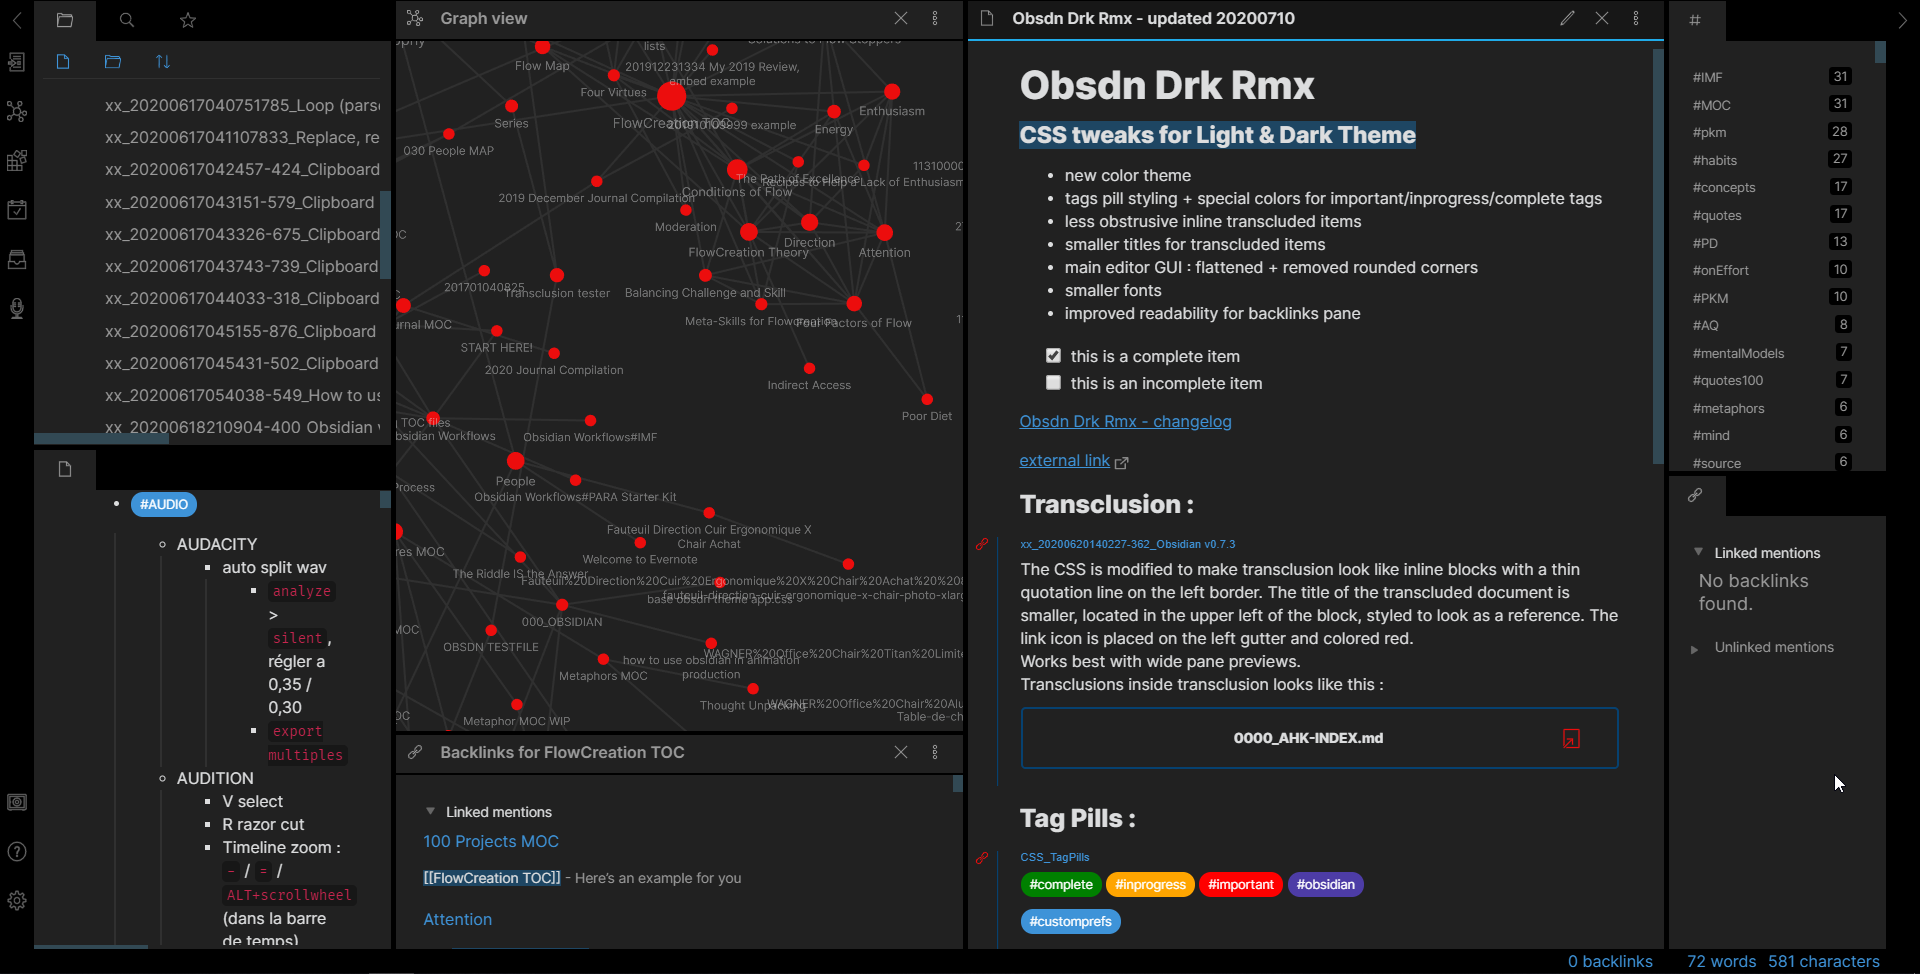
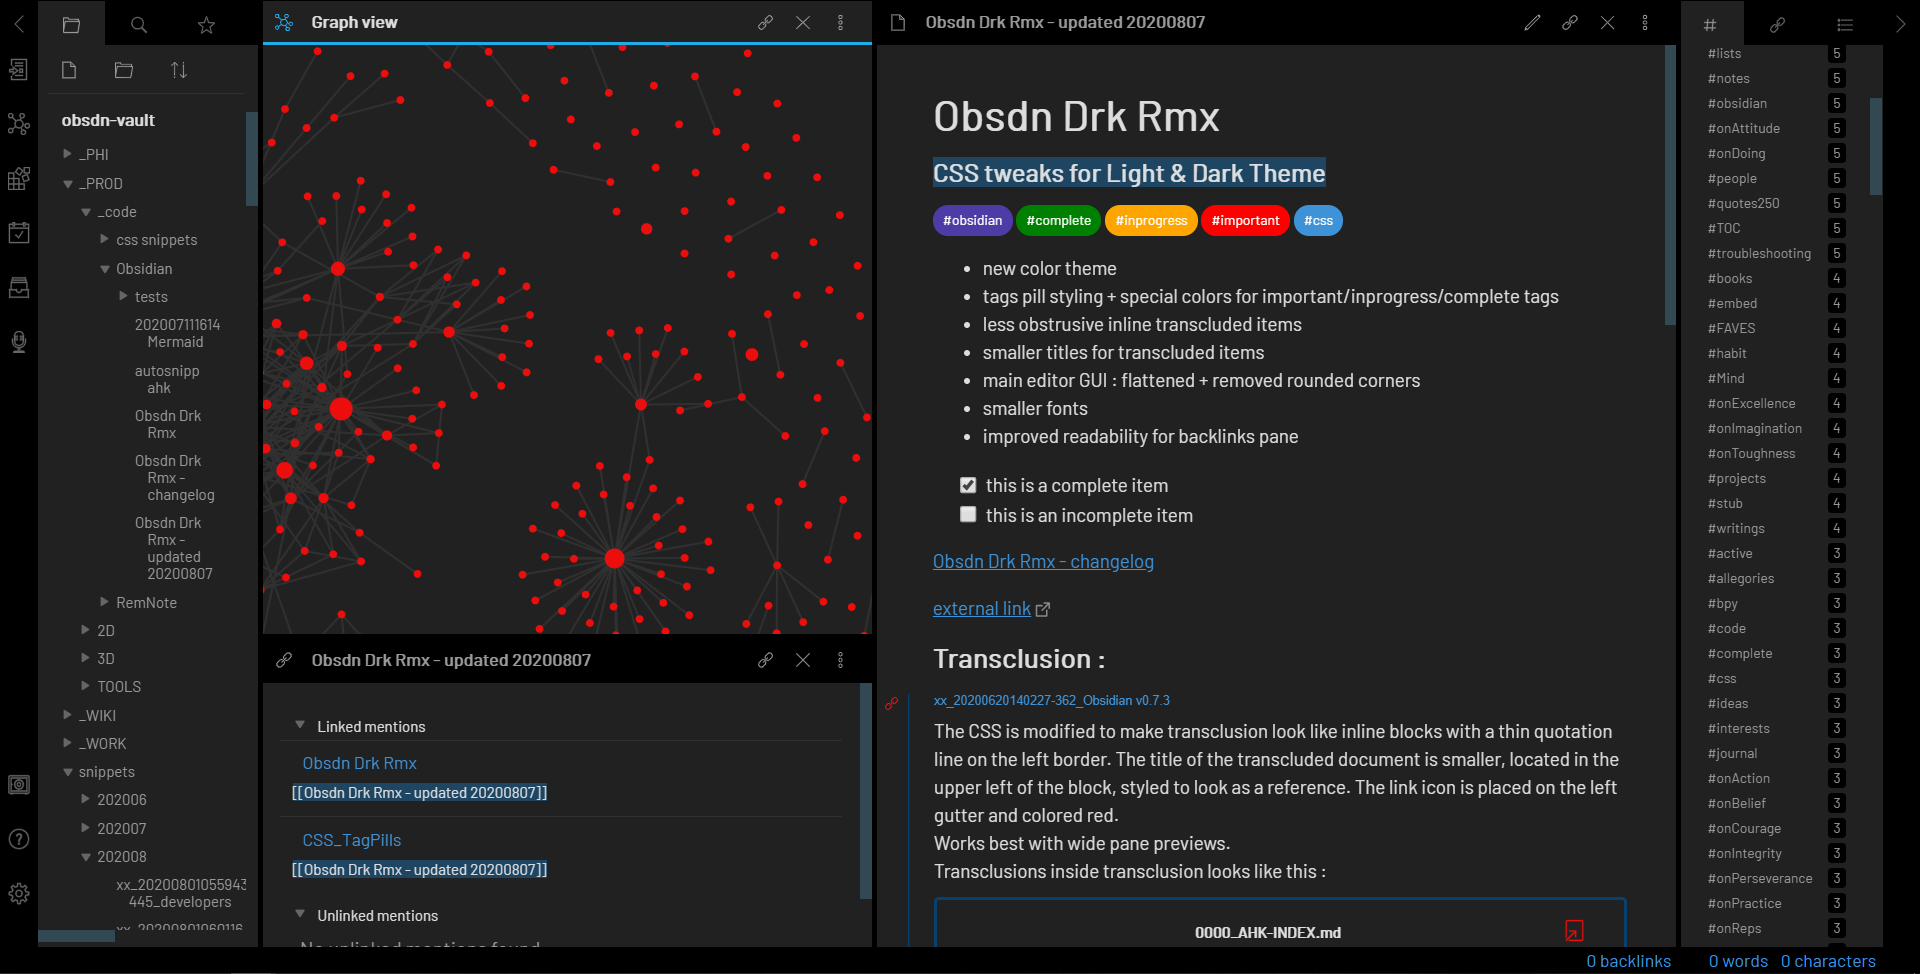
20200807 update for Obsidian 0.8.2
* default font is now Barlow : https://fonts.google.com/specimen/Barlow?query=barlow
and monospace is Fira Code  : https://github.com/tonsky/FiraCode
* edit pane : line numbers are faintly accented
* file explorer : more compact and long filenames wrap instead of overflowing
* file explorer : the name  of the vault is now **bold**, easier to distinguish from the folders
* tag pane : more compact, tweaked some alignments
* the active pane icon is now colored with the accent color instead of b&w (easier to see when you have multiple documents opened)
* search pane : fixed selected icons color + better separation between search results (thin line)

diff --git a/obsidian.css b/obsidian.css
@@ -87,10 +87,7 @@ body {
 }
 
 /* ====== Tag Pills ======== */ 
-div:not(.CodeMirror-activeline) > .CodeMirror-line span.cm-hashtag-end:before {
-    content: '#';
-}
-.tag, div:not(.CodeMirror-activeline) > .CodeMirror-line span.cm-hashtag-end {
+ .tag {
   background-color: var(--text-accent);
   border: none;
   color: white !important;
@@ -452,7 +449,7 @@ svg.link {
 	font-size: 12px;
 	line-height: 18px;
   padding: 2px 5px;
-  margin-bottom: 6px;
+  margin-bottom: 3px;
 } 
 .search-result-file-match:not(:first-child) {
 	margin-top: 0px;
@@ -493,9 +490,6 @@ svg.link {
 	color: var(--text-accent);
 }
 /* ======= graph view ==============*/
-/*.view-content iframe { background-image: url("https://filedn.com/locqGc5NIUyfrWR1S0M3dRz/screenshots/hpx1bg.jpg")
-; }*/
-
 .graph-view.color-fill {              
 	color: var(--accent-strong);
 /*var(--text-muted)if you want neutral color*/
